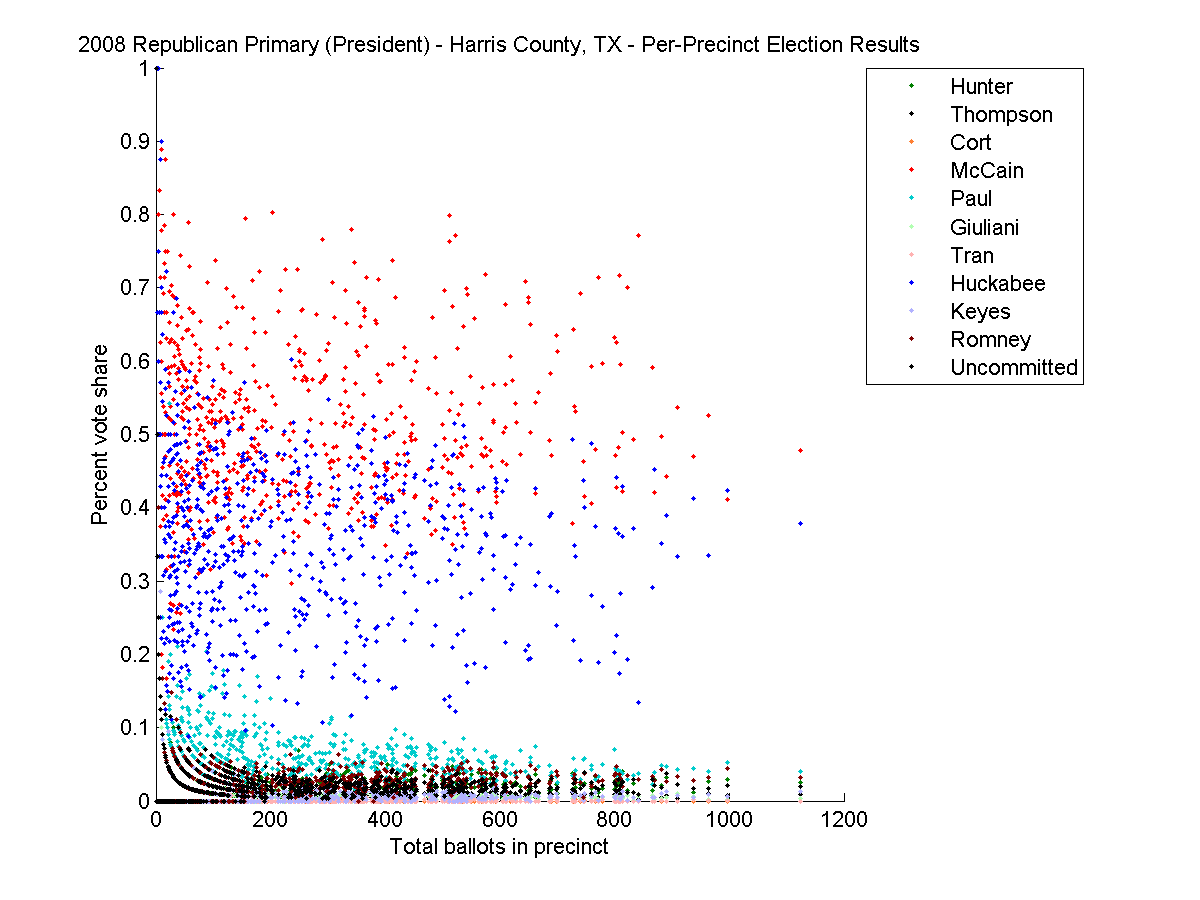
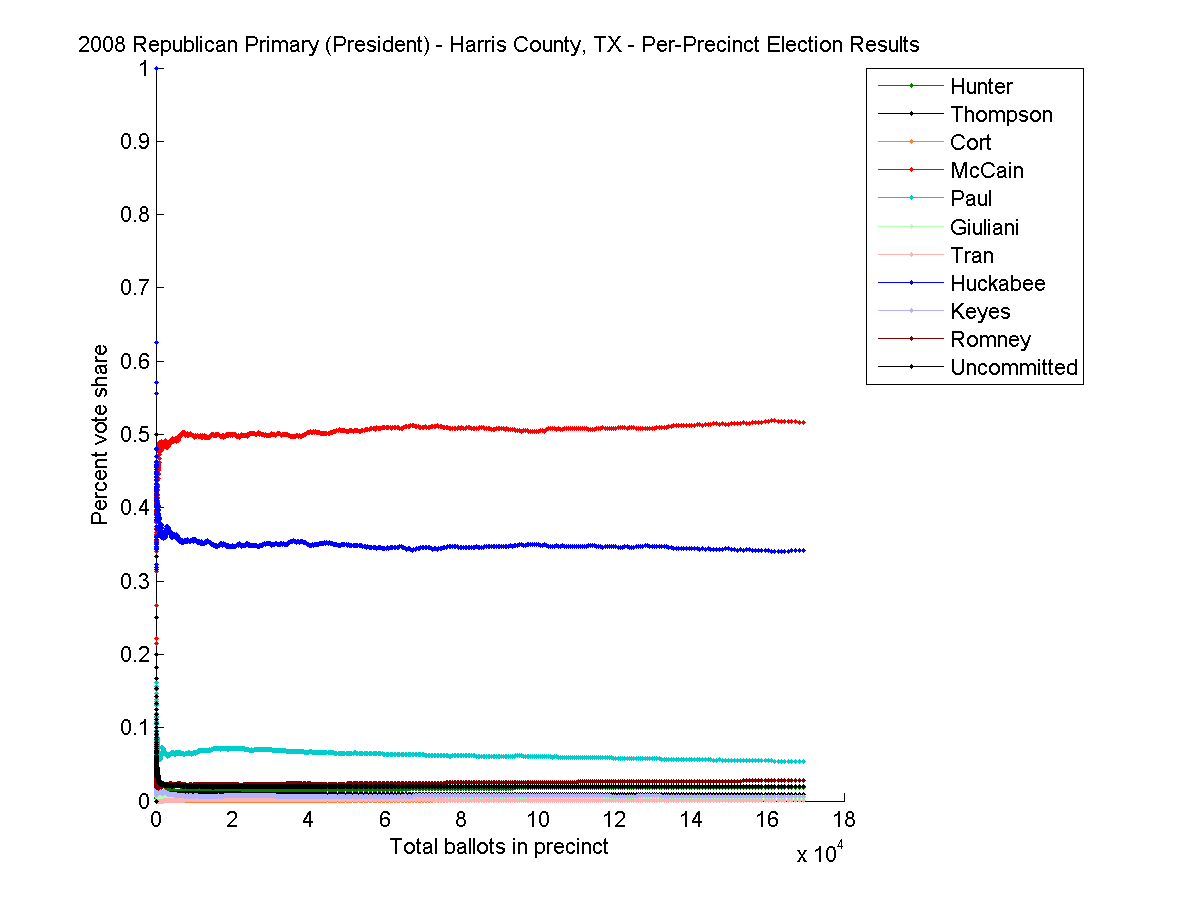
switched to using cumulative totals, updated plots

diff --git a/plots/20121023/makeplot.m b/plots/20121023/makeplot.m
@@ -7,7 +7,7 @@ plot_2012_democratic_presidential_primary_tx_harris();
 
 
 %%
-function [filename] = plot_2012_republican_presidential_primary_tx_harris()
+function [plot_filename] = plot_2012_republican_presidential_primary_tx_harris()
 
 year = '2012';
 election = 'Republican Primary';
@@ -77,15 +77,20 @@ data2 = load(data2_filename);
 
 allvotes = [data1(:,[5:9 11:13]) data2(:,6)];
 totals = data2(:,7);
-allpercents = bsxfun(@rdivide, allvotes, totals);
+
+[totals_sorted, idx_sorted] = sort(totals);
+allvotes_sorted = allvotes(idx_sorted,:);
+cumulativetotals = cumsum(totals_sorted);
+cumulativevotes = cumsum(allvotes_sorted);
+cumulativepercents = bsxfun(@rdivide, cumulativevotes, cumulativetotals);
 
 % plot percents against precinct size for each candidate
 
 close
 figure(1)
 hold on
-for i = 1:size(allpercents,2);
-  plot(totals, allpercents(:,i), '.', 'Color', cmap(i,:))
+for i = 1:size(cumulativepercents,2);
+  plot(cumulativetotals, cumulativepercents(:,i), '.-', 'Color', cmap(i,:))
 end
 title([year ' ' election ' (' event ') - ' county ', ' state ' - Per-Precinct Election Results'])
 xlabel('Total ballots in precinct')
@@ -137,13 +142,20 @@ data = load(data_filename);
 
 allvotes = data(:,5:8);
 totals = data(:,9);
-allpercents = bsxfun(@rdivide, allvotes, totals);
+
+[totals_sorted, idx_sorted] = sort(totals);
+allvotes_sorted = allvotes(idx_sorted,:);
+cumulativetotals = cumsum(totals_sorted);
+cumulativevotes = cumsum(allvotes_sorted);
+cumulativepercents = bsxfun(@rdivide, cumulativevotes, cumulativetotals);
+
+% plot percents against precinct size for each candidate
 
 close
 figure(1)
 hold on
-for i = 1:size(allpercents,2);
-  plot(totals, allpercents(:,i), '.', 'Color', cmap(i,:))
+for i = 1:size(cumulativepercents,2);
+  plot(cumulativetotals, cumulativepercents(:,i), '.-', 'Color', cmap(i,:))
 end
 title([year ' ' election ' (' event ') - ' county ', ' state ' - Per-Precinct Election Results'])
 xlabel('Total ballots in precinct')
@@ -218,13 +230,20 @@ data2 = load(data2_filename);
 
 allvotes = [data1(:,[5:9 11:13]) data2(:,6:8)];
 totals = data2(:,9);
-allpercents = bsxfun(@rdivide, allvotes, totals);
+
+[totals_sorted, idx_sorted] = sort(totals);
+allvotes_sorted = allvotes(idx_sorted,:);
+cumulativetotals = cumsum(totals_sorted);
+cumulativevotes = cumsum(allvotes_sorted);
+cumulativepercents = bsxfun(@rdivide, cumulativevotes, cumulativetotals);
+
+% plot percents against precinct size for each candidate
 
 close
 figure(1)
 hold on
-for i = 1:size(allpercents,2);
-  plot(totals, allpercents(:,i), '.', 'Color', cmap(i,:))
+for i = 1:size(cumulativepercents,2);
+  plot(cumulativetotals, cumulativepercents(:,i), '.-', 'Color', cmap(i,:))
 end
 title([year ' ' election ' (' event ') - ' county ', ' state ' - Per-Precinct Election Results'])
 xlabel('Total ballots in precinct')
@@ -280,13 +299,20 @@ data = load(data_filename);
 
 allvotes = data(:,[5:9 11]);
 totals = data(:,12);
-allpercents = bsxfun(@rdivide, allvotes, totals);
+
+[totals_sorted, idx_sorted] = sort(totals);
+allvotes_sorted = allvotes(idx_sorted,:);
+cumulativetotals = cumsum(totals_sorted);
+cumulativevotes = cumsum(allvotes_sorted);
+cumulativepercents = bsxfun(@rdivide, cumulativevotes, cumulativetotals);
+
+% plot percents against precinct size for each candidate
 
 close
 figure(1)
 hold on
-for i = 1:size(allpercents,2);
-  plot(totals, allpercents(:,i), '.', 'Color', cmap(i,:))
+for i = 1:size(cumulativepercents,2);
+  plot(cumulativetotals, cumulativepercents(:,i), '.-', 'Color', cmap(i,:))
 end
 title([year ' ' election ' (' event ') - ' county ', ' state ' - Per-Precinct Election Results'])
 xlabel('Total ballots in precinct')
